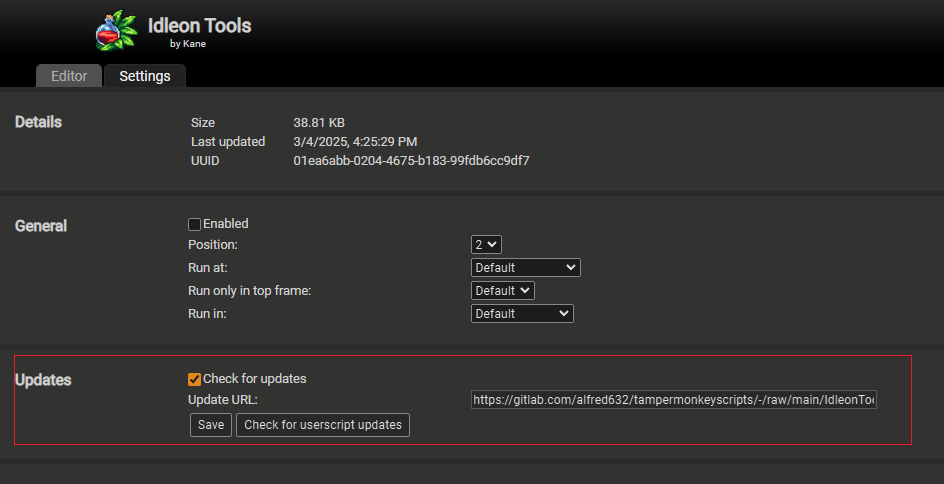
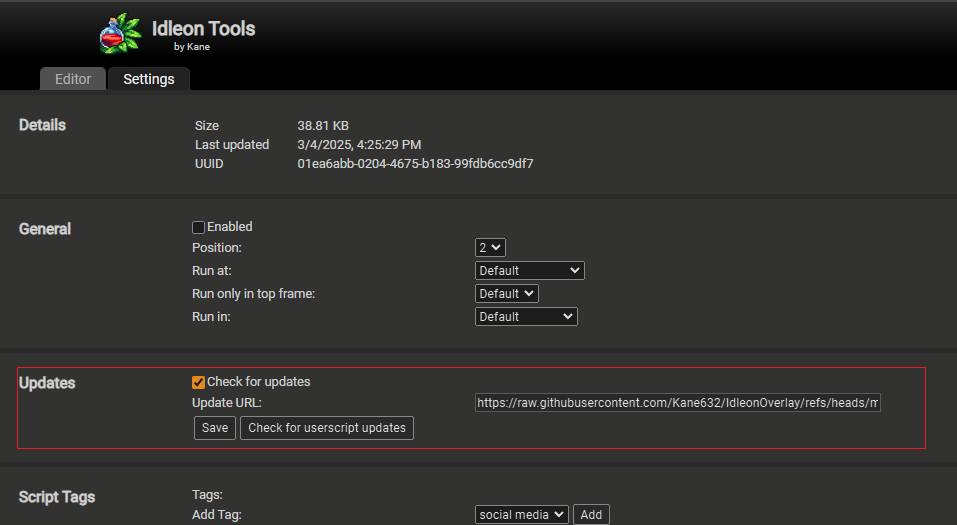
Modified Urls after migration to github

diff --git a/README.md b/README.md
@@ -18,7 +18,7 @@ The IdleonTools.js script when enabled will add some kind of automation on top o
 ### Installation  <a name="idleon-tools-installation"></a>
 Go to the Tampermonkey extension dashboard. Then inside the Utilities tab import the script with the following url:  
   
-https://gitlab.com/alfred632/tampermonkeyscripts/-/raw/main/IdleonTools.js?ref_type=heads  
+https://raw.githubusercontent.com/Kane632/IdleonOverlay/refs/heads/main/IdleonTools.js  
 
 ![how to import from url](./Docs/Images/IdleonTools/ImportFromUrl.png)  
 
